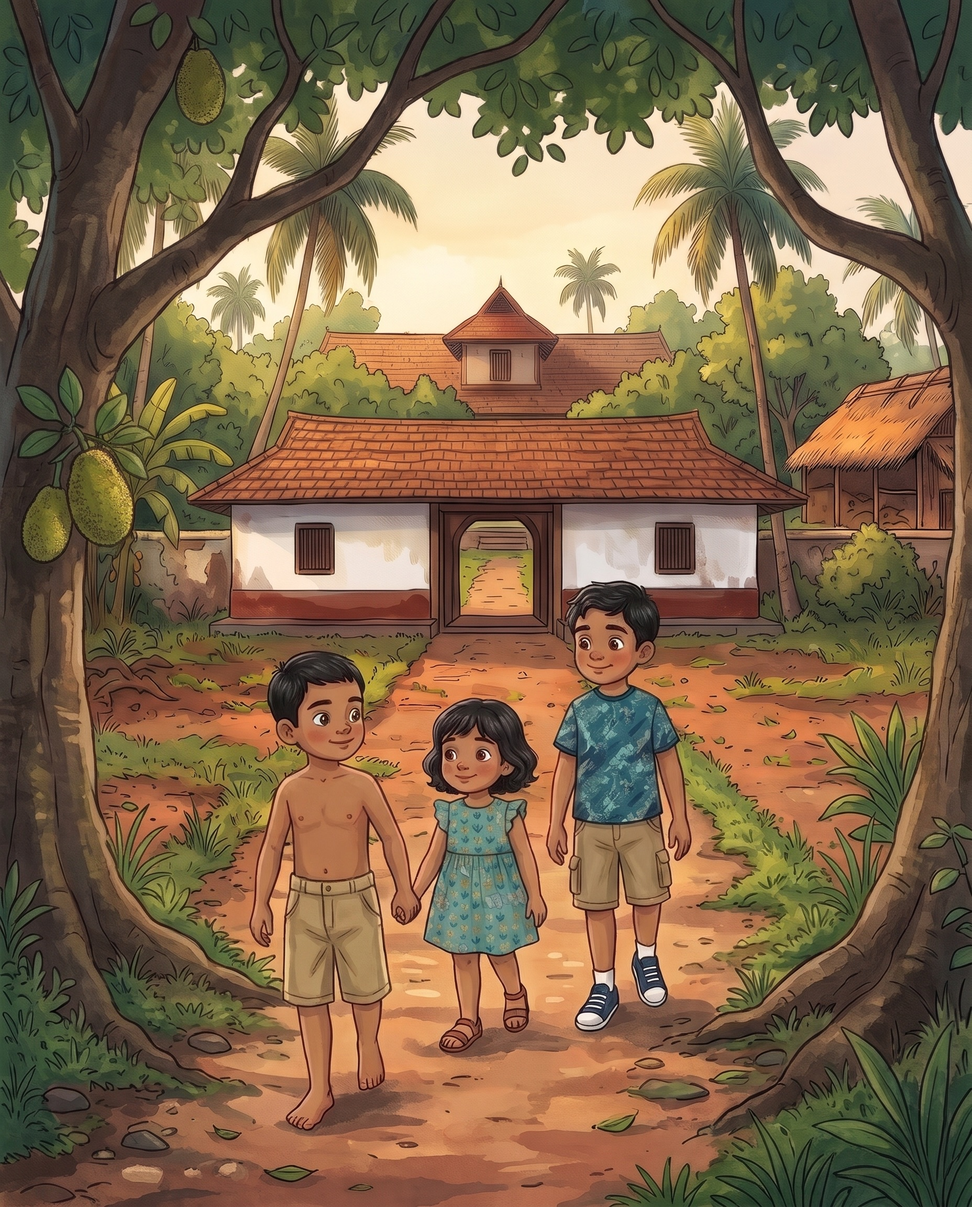
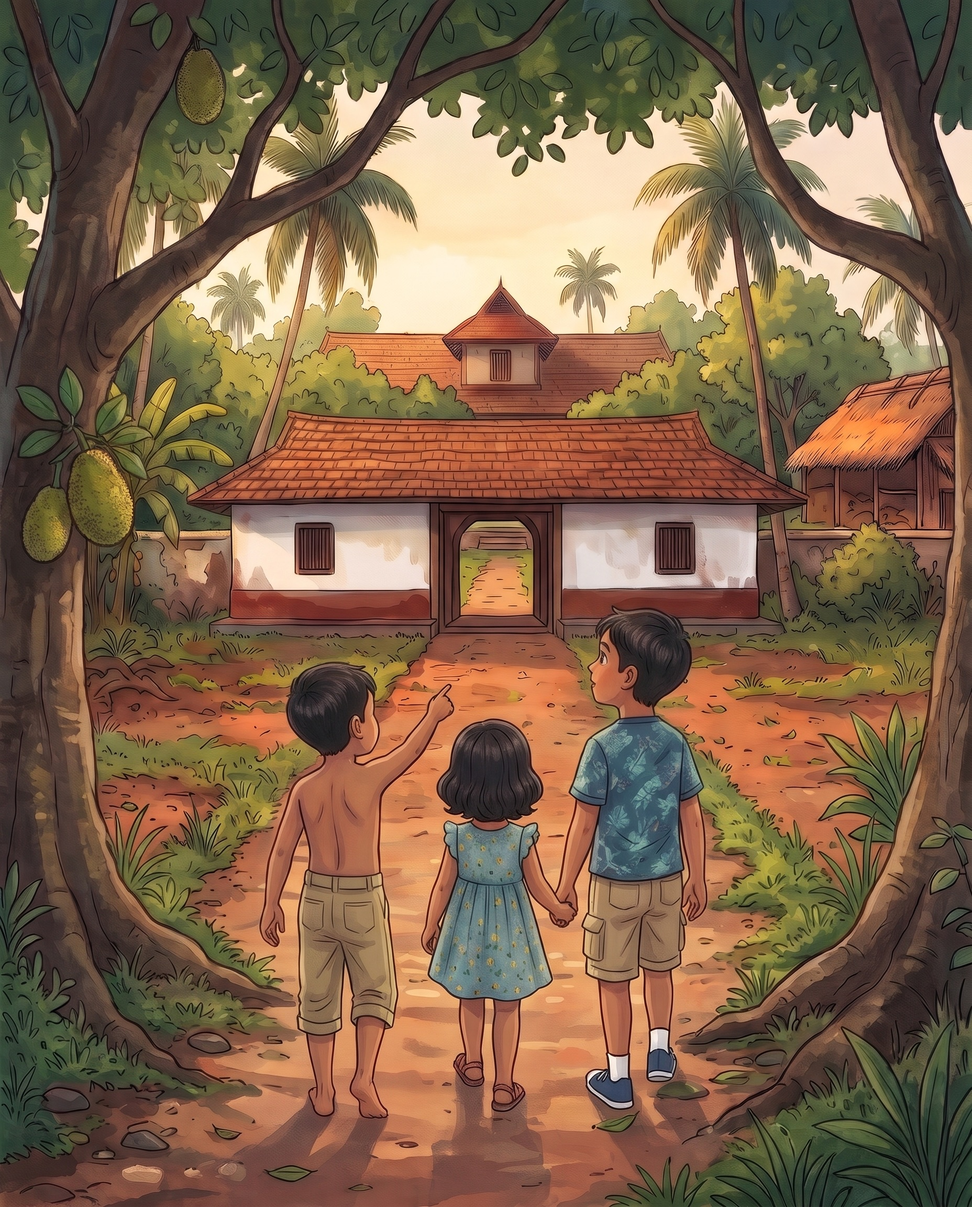
Comic ch.1 panel 5: the children walk towards the house, not away from it
The chapter has the village boy leading them to the ancestral home, and the
bubbles ("Look at that big house!") fit that. Redrawn with the three children
seen from behind, walking up the path towards the gatehouse, the village boy
pointing ahead. Alt text, scene note and both share sheets updated; cache
version bumped.

diff --git a/comics/chiyyaram-childhood/story.js b/comics/chiyyaram-childhood/story.js
@@ -20,7 +20,7 @@ var PANELS = [
     bubbles: [[ACHU, 'Where are we?'], [APPU, 'I think… inside ' + GRANDPA + "'s book!"]] },
   { alt: 'A bare-chested village boy in half-trousers stops on the ridge, staring at the two children.',
     bubbles: [['Village boy', "Who are you? I've never seen you in Chiyyaram!"], [APPU + ' (whispering)', ACHU + '… I think that\'s ' + GRANDPA + '!', 'aside']] },
-  { alt: 'The village boy leads the children along the red-earth path; behind them, the tiled gatehouse of the ancestral home, with the house roof beyond.',
+  { alt: 'Seen from behind, the village boy points ahead as the three children walk up the red-earth path towards the tiled gatehouse of the ancestral home, the house roof beyond.',
     ml: '…എന്റെ തറവാട് "കോരപ്പത്തു കളപ്പുരക്കൽ" ഞങ്ങളുടെ ഗ്രാമത്തിലും തൃശ്ശൂർ പരിസര പ്രദേശത്തും സാമാന്യം അറിയപ്പെട്ടിരുന്നതും…',
     en: '…my ancestral home, "Korappath Kalappurakkal," was reasonably well known in our village and the surrounding Thrissur area…',
     bubbles: [[APPU, 'Look at that big house!'], [ACHU, 'Is that where little ' + GRANDPA + ' lives?']] },

diff --git a/comics/chiyyaram-childhood/index.html b/comics/chiyyaram-childhood/index.html
@@ -56,10 +56,10 @@
 
 <footer>An ongoing family archive · Korappath, Chiyyaram, Thrissur</footer>
 
-<script src="story.js?v=4"></script>
+<script src="story.js?v=5"></script>
 <script>
 var COMIC = {
-  v: '10',  // bump whenever a panel image changes, so browsers drop their cached copies
+  v: '11',  // bump whenever a panel image changes, so browsers drop their cached copies
   next: 'Next time: who was Appuman?',
   nextUrl: '../../stories/appuman-harvest.html',
   nextLink: 'Read Chapter 2 →'
